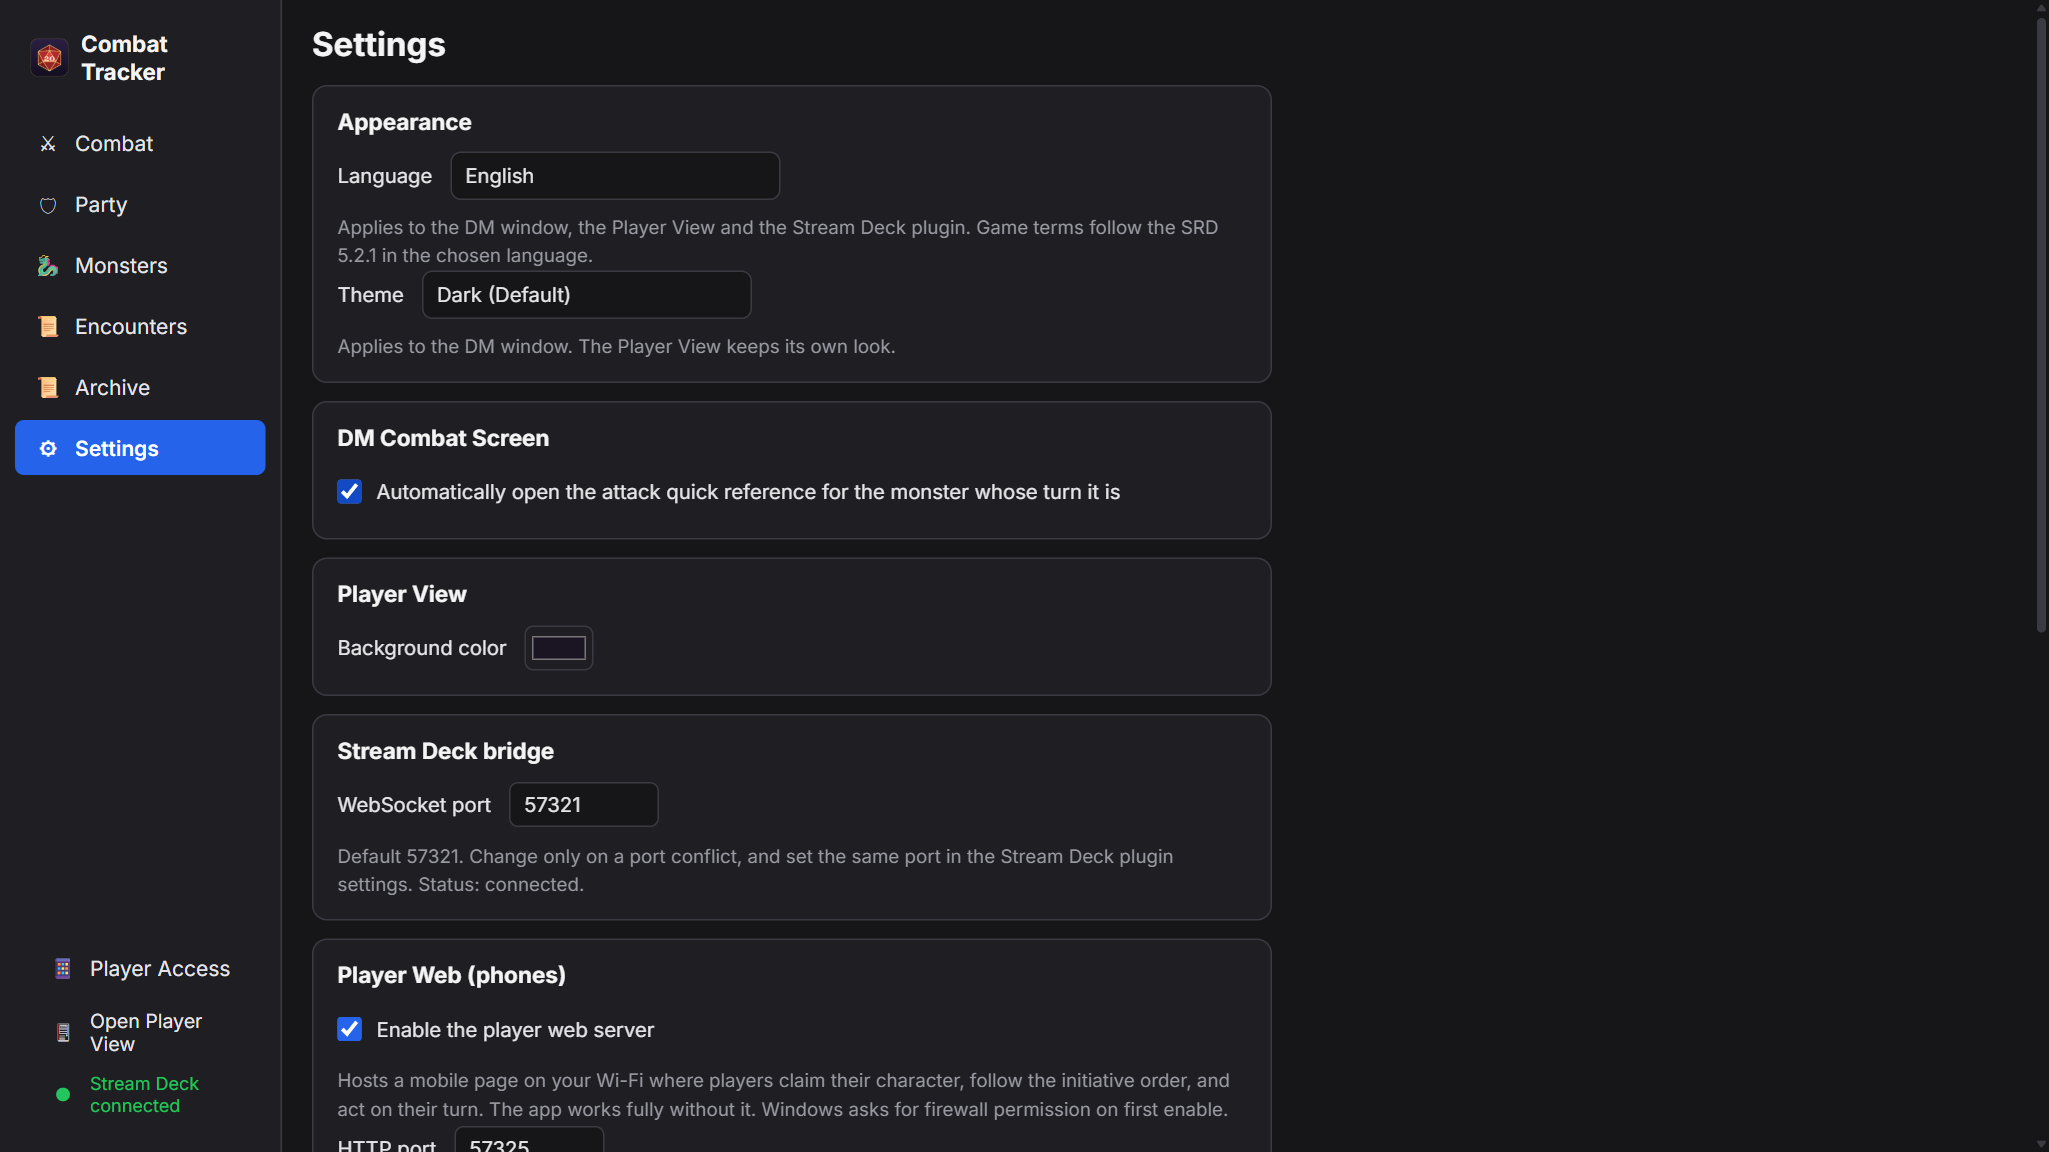
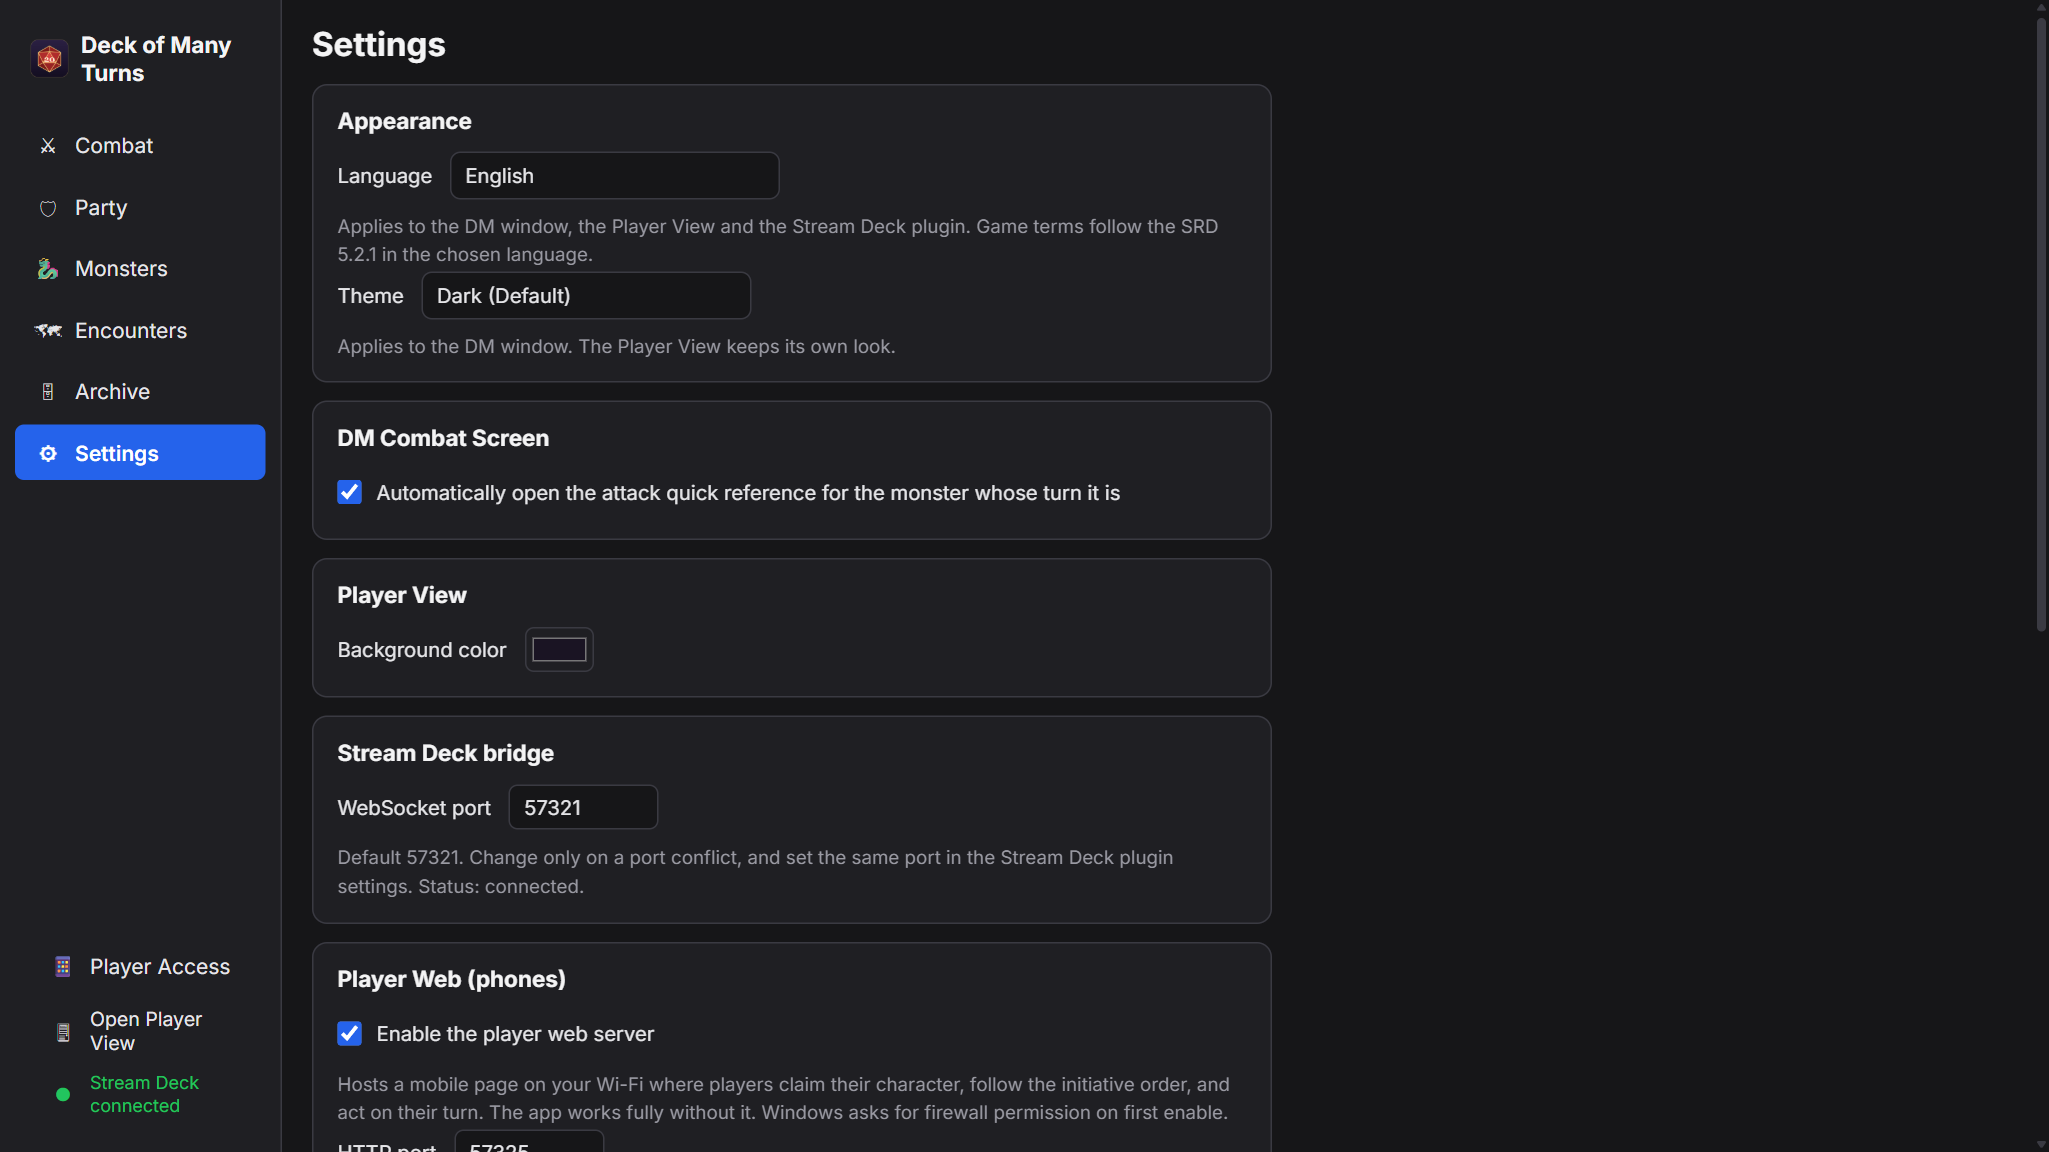
Demo phone sizing, fresh screenshots, round pluralization
- Demo sidebar widens to 392px with a 340x640 phone iframe.
- README screenshots reshot: rebranded DM chrome (new nav icons, ghost
  Attacks buttons, colorized log with math sub-lines), phone trio
  without desktop scrollbars, attack shot now reaches target select
  with the roll-mode toggle.
- "1 rounds" -> "1 round"/"1 Runde" on the Archive screen and phone.
- playerServer log-filter docstring matches the strip-everything rule.
- Rebuilt plugin artifacts; verified the publish dry run finds the
  renamed installer.

diff --git a/app/src/shared/i18n.ts b/app/src/shared/i18n.ts
@@ -260,6 +260,7 @@ const en: Dict = {
   'mob.archive': 'Past combats',
   'mob.archiveEmpty': 'No archived combats yet.',
   'mob.rounds': '{rounds} rounds',
+  'mob.roundsOne': '1 round',
   'mob.err.notYourTurn': 'Not your turn.',
   'mob.err.badTarget': 'Invalid target.',
   'mob.err.badAttack': 'Unknown attack.',
@@ -280,6 +281,7 @@ const en: Dict = {
   'archive.ended': 'Ended',
   'archive.roundsCol': 'Rounds',
   'archive.rounds': '{rounds} rounds',
+  'archive.roundsOne': '1 round',
   'archive.deleteConfirm': 'Delete this combat log permanently?',
   'logPanel.title': 'Combat log',
   'logPanel.collapse': 'Collapse',
@@ -670,6 +672,7 @@ const de: Dict = {
   'mob.archive': 'Vergangene Kämpfe',
   'mob.archiveEmpty': 'Noch keine archivierten Kämpfe.',
   'mob.rounds': '{rounds} Runden',
+  'mob.roundsOne': '1 Runde',
   'mob.err.notYourTurn': 'Nicht dein Zug.',
   'mob.err.badTarget': 'Ungültiges Ziel.',
   'mob.err.badAttack': 'Unbekannter Angriff.',
@@ -690,6 +693,7 @@ const de: Dict = {
   'archive.ended': 'Beendet',
   'archive.roundsCol': 'Runden',
   'archive.rounds': '{rounds} Runden',
+  'archive.roundsOne': '1 Runde',
   'archive.deleteConfirm': 'Dieses Kampflog endgültig löschen?',
   'logPanel.title': 'Kampflog',
   'logPanel.collapse': 'Einklappen',

diff --git a/app/src/mobile/App.tsx b/app/src/mobile/App.tsx
@@ -231,7 +231,11 @@ export function App() {
                   </button>
                   <h3>
                     {archiveEntry.templateName}{' '}
-                    <span className="muted">{t('mob.rounds', { rounds: archiveEntry.rounds })}</span>
+                    <span className="muted">
+                    {archiveEntry.rounds === 1
+                      ? t('mob.roundsOne')
+                      : t('mob.rounds', { rounds: archiveEntry.rounds })}
+                  </span>
                   </h3>
                   <LogList log={archiveEntry.log} lang={lang} />
                 </>
@@ -247,7 +251,7 @@ export function App() {
                           {new Date(a.endedAt).toLocaleDateString(
                             state.language === 'de' ? 'de-DE' : 'en-US',
                           )}{' '}
-                          · {t('mob.rounds', { rounds: a.rounds })}
+                          · {a.rounds === 1 ? t('mob.roundsOne') : t('mob.rounds', { rounds: a.rounds })}
                         </span>
                       </button>
                     </li>

diff --git a/app/src/renderer/src/screens/ArchiveScreen.tsx b/app/src/renderer/src/screens/ArchiveScreen.tsx
@@ -49,7 +49,7 @@ export function ArchiveScreen() {
                   <strong>{e.templateName}</strong>
                   <span className="muted">
                     {new Date(e.endedAt).toLocaleDateString(locale)} ·{' '}
-                    {t('archive.rounds', { rounds: e.rounds })}
+                    {e.rounds === 1 ? t('archive.roundsOne') : t('archive.rounds', { rounds: e.rounds })}
                   </span>
                 </div>
                 <button
@@ -76,7 +76,7 @@ export function ArchiveScreen() {
                   {open.templateName}{' '}
                   <span className="muted">
                     {new Date(open.endedAt).toLocaleString(locale)} ·{' '}
-                    {t('archive.rounds', { rounds: open.rounds })}
+                    {open.rounds === 1 ? t('archive.roundsOne') : t('archive.rounds', { rounds: open.rounds })}
                   </span>
                 </h2>
                 <div className="archive-log">

diff --git a/app/src/main/playerServer.ts b/app/src/main/playerServer.ts
@@ -193,8 +193,8 @@ function isBloodied(c: Combatant): boolean {
 }
 
 /**
- * The player log filter: monster attack-roll numbers stay hidden (players
- * see the outcome, not the d20 math). Everything else passes through.
+ * The player log filter: no dice compositions on player surfaces. Attack-roll
+ * numbers and damage math stay DM-side; save totals remain (table-announced).
  */
 function filterLogForPlayers(log: LogEntry[]): LogEntry[] {
   // No dice compositions on player surfaces at all: attack-roll numbers and
